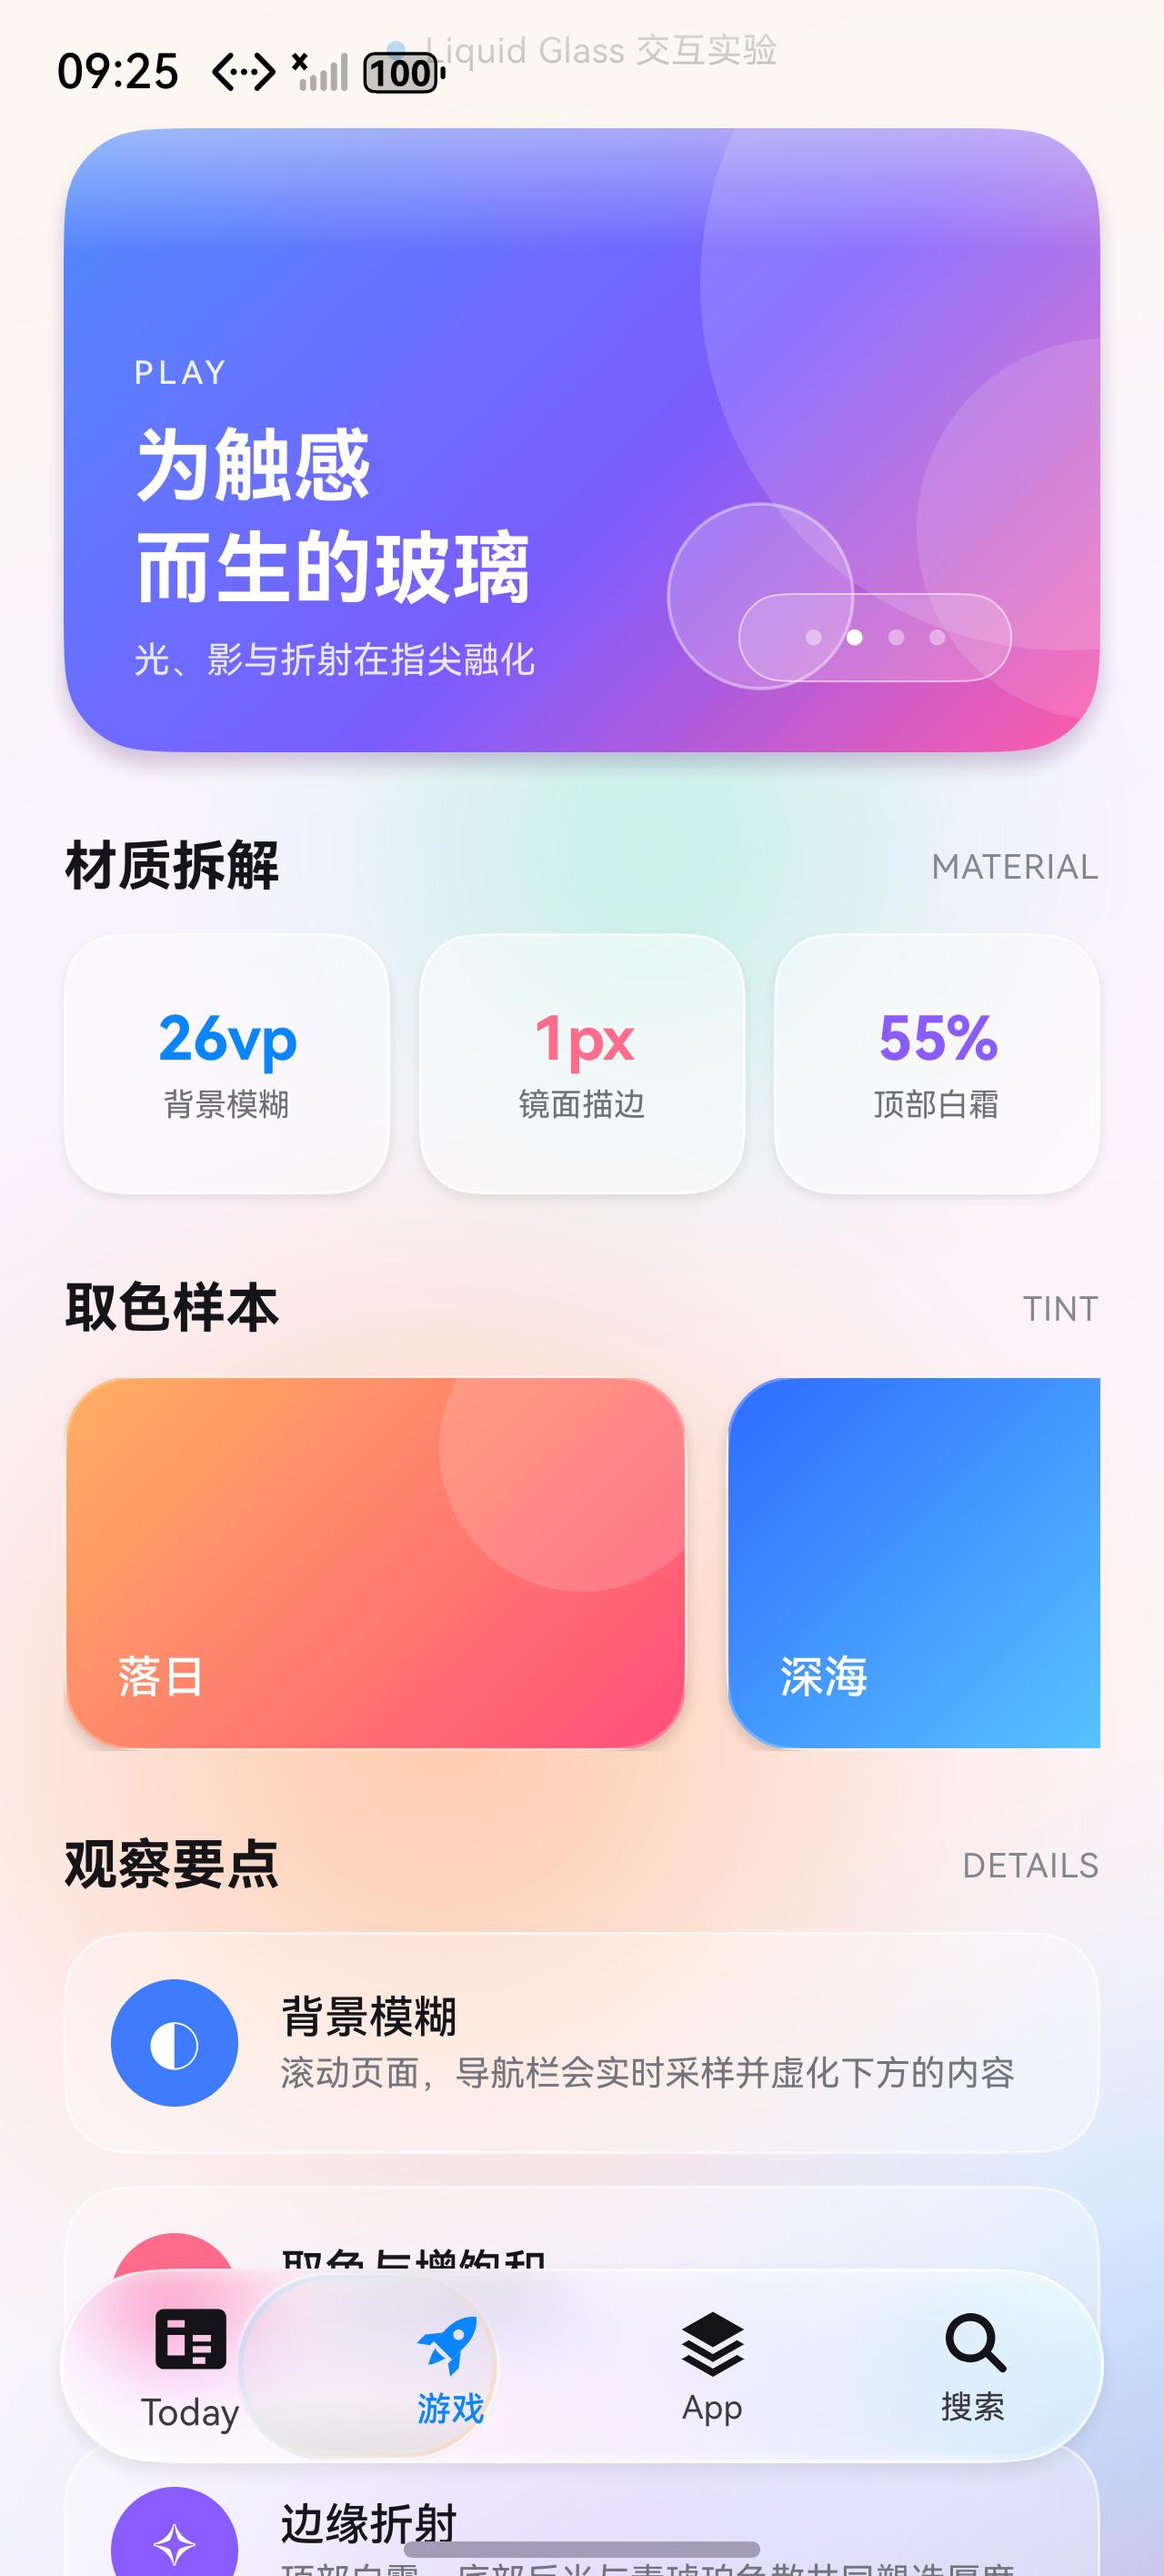
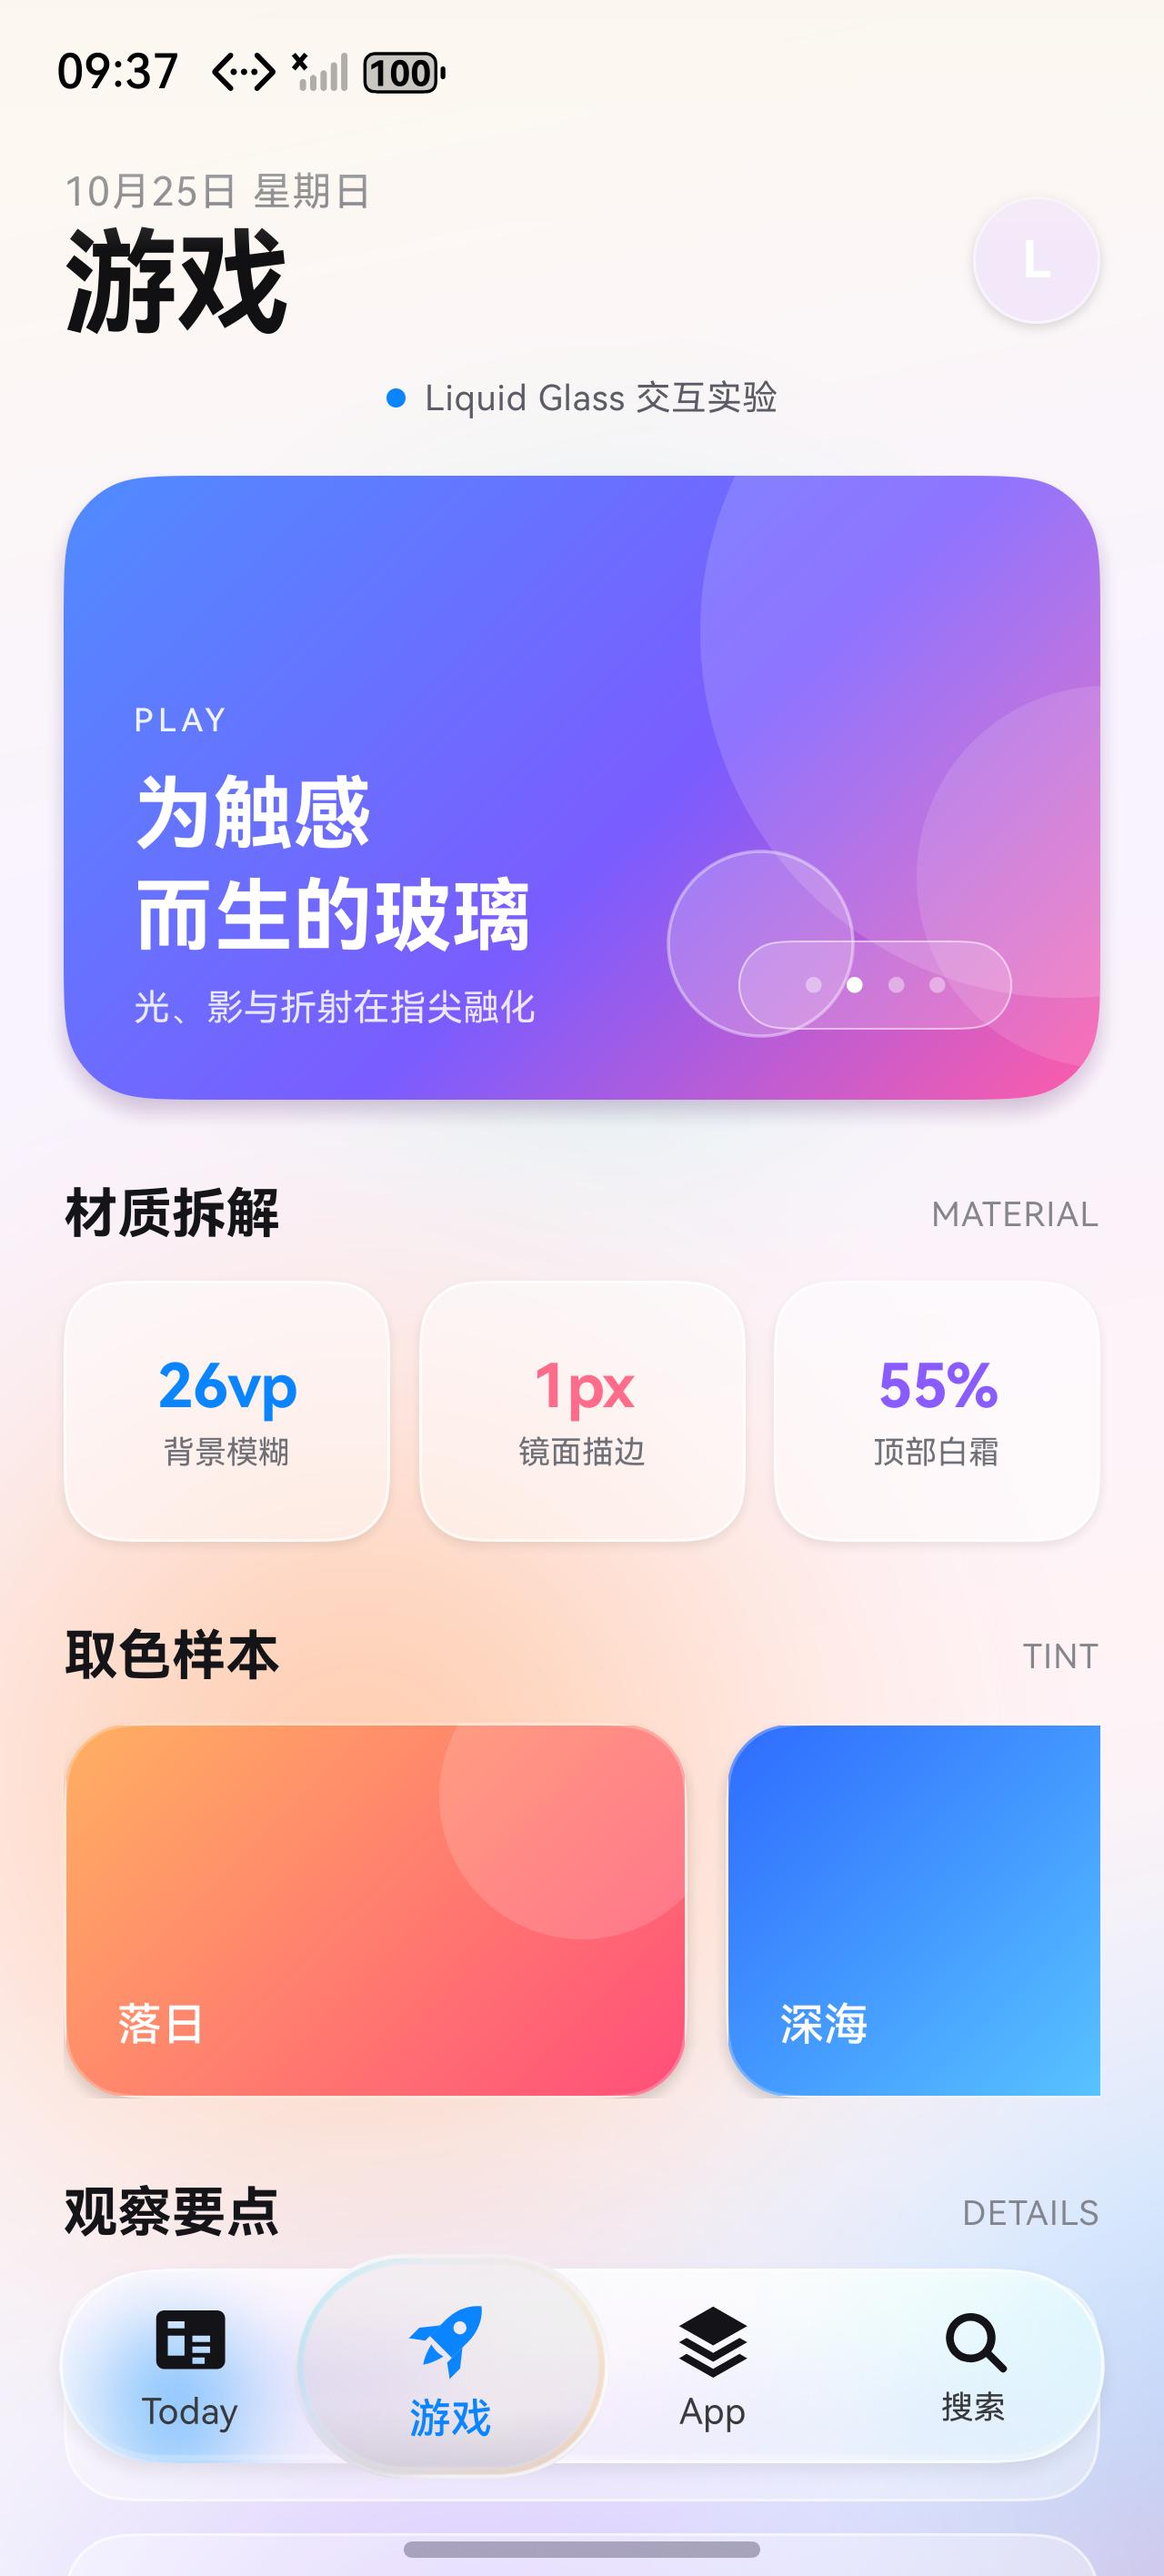
fix: keep the liquid lens clarity constant while it scales
- drop the per-bloom fill/rim opacity fade
- reuse the same glass material at rest and at full bloom
- refresh the documentation and lens screenshots

diff --git a/docs/analysis.md b/docs/analysis.md
@@ -149,7 +149,7 @@ ui.animateTo({
 
 > 按最新交互要求，透镜在点击时会明显高出、长出栏体：约 `67.5 vp` 高（上下各超出约 3.75 vp）、约 `95 vp` 长，左右两端最多超出约 7.3 vp。这里不再对透镜做栏体裁剪，让玻璃、模糊与描边一起溢出，形成参考视频里“液体鼓起”的体积感。
 
-膨胀过程中，内部材质会部分淡出：`lensFill` 从 1 → 0.3，`lensRim` 从 1 → 0.8；到最大时仍保留约 30% 的玻璃感，不会完全透明。
+膨胀过程中，玻璃填充、内阴影与描边保持与静止时相同的透明度，不随放大而变淡或变透明；放大后只是同一块玻璃变得更大。
 
 **放大只作用于导航栏自身**：四个 TabItem 的图标与文字会根据其到气泡中心的距离放大（约 1.0–1.3×），栏后的页面内容不缩放，只保留玻璃的背景模糊与取色。这样气泡像一枚盖在导航栏上的透镜，而不是放大页面内容。
 
@@ -165,13 +165,13 @@ ui.animateTo({
 | 按住 | 260 ms | spring(0.32, 0.78) | **整条栏 1.05×，选中气泡 1.45×**，明显高出、长出栏体 |
 | 拖动 | 实时 | — | `bubbleX` 跟随手指，不吸附标签；松手落到最近标签 |
 | 松开 | 360 ms | spring(0.42, 0.86) | 整条栏回弹到 1.0 |
-| 透镜膨胀 | 170 ms | EaseOut | 1.35 × 1.35，明显高出、长出栏体；内部材质淡出到 30% |
-| 最大膨胀 | 与膨胀同步 | — | `lensFill = 0.3`、`lensRim = 0.8`；导航栏图标/文字放大 1.0–1.3×，页面内容不缩放 |
+| 透镜膨胀 | 170 ms | EaseOut | 1.35 × 1.35，明显高出、长出栏体；填充与描边保持不变 |
+| 最大膨胀 | 与膨胀同步 | — | 清晰度与静止时一致；导航栏图标/文字放大 1.0–1.3×，页面内容不缩放 |
 | 透镜位移 | 640 ms | spring(0.42, 0.7) | 带过冲，途中保持膨胀 |
 | 透镜回弹 | 520 ms | spring(0.52, 0.82) | 回到 1.0，bloom 淡出 |
 | 内容切换 | 即时 | — | 标题、主视觉、主题色切换 |
 
-按住时外层 `Stack` 以 1.05× 放大，选中透镜同时以 1.45× 膨胀（约 72.5 vp 高、102 vp 长），上下与左右都会明显超出栏体；内部保留 30% 玻璃填充（`lensFill 1→0.3`、`lensRim 1→0.8`），不会完全透明。导航栏图标/文字按到气泡中心的距离放大 1.0–1.3×，页面内容保持原尺寸。
+按住时外层 `Stack` 以 1.05× 放大，选中透镜同时以 1.45× 膨胀（约 72.5 vp 高、102 vp 长），上下与左右都会明显超出栏体；玻璃填充与描边保持原样，放大前后清晰度一致，不会变透明。导航栏图标/文字按到气泡中心的距离放大 1.0–1.3×，页面内容保持原尺寸。
 
 ![按住放大对照](screenshots/bar-hold-compare.png)
 
@@ -210,7 +210,7 @@ Stack
 │   ├── 白色纵向渐变（顶部霜 / 中部透 / 底部反光）
 │   ├── 冷色薄片
 │   └── GlassRim（镜面描边 + 反光 + 高光）
-├── 选中透镜（鼓出栏体，填充可淡出）
+├── 选中透镜（鼓出栏体，清晰度不变）
 │   ├── backgroundEffect 二次聚色
 │   ├── 烟熏色 + 白色高光渐变
 │   ├── 底部内阴影
@@ -238,8 +238,6 @@ ui.animateTo({ duration: 320, curve: curves.springMotion(0.34, 0.7) }, () => {
   this.bloomX = 1.45;
   this.bloomY = 1.45;
   this.glow = 1;
-  this.lensFill = 0.3;  // 保留 30% 玻璃感
-  this.lensRim = 0.8;   // 边缘更清晰
 });
 // 松开：弹回
 ui.animateTo({ duration: 360, curve: curves.springMotion(0.42, 0.86) }, () => {

diff --git a/README.md b/README.md
@@ -20,7 +20,7 @@
 | 彩色背景 | 预渲染 PNG 光斑，缓慢漂移 |
 | 沉浸式 | 全屏 + `getWindowAvoidArea` 安全区 |
 
-选中切换：透镜先在 170 ms 内膨胀到 `1.35 × 1.35`，明显高出、长出导航栏；内部白霜与烟熏色淡出，但保留约 30% 的玻璃感，不会完全透明。**只放大导航栏自身的图标与文字**，栏后的页面内容不缩放，只保留玻璃的模糊与取色。
+选中切换：透镜先在 170 ms 内膨胀到 `1.35 × 1.35`，明显高出、长出导航栏；放大前后保持相同的玻璃填充、描边与清晰度，不会因为放大而变透明。**只放大导航栏自身的图标与文字**，栏后的页面内容不缩放，只保留玻璃的模糊与取色。
 
 ## 目录
 
@@ -59,7 +59,7 @@ hdc -t 127.0.0.1:5555 shell aa start \
 
 - 上下滚动：把彩色卡片滑到导航栏下方，观察取色、模糊与高光变化。
 - 点击四个标签：观察透镜的膨胀、弹射和回弹。
-- 按住标签不松手：整条玻璃栏放大到 **1.05×**，选中气泡同时膨胀到 **1.45×**；气泡保留约 30% 玻璃填充，不会完全透明。**导航栏自身的图标/文字会随气泡位置放大 1.0–1.3×，栏后的页面内容不缩放**；松开后气泡回弹并切页。
+- 按住标签不松手：整条玻璃栏放大到 **1.05×**，选中气泡同时膨胀到 **1.45×**；气泡放大前后清晰度一致，不会变透明。**导航栏自身的图标/文字会随气泡位置放大 1.0–1.3×，栏后的页面内容不缩放**；松开后气泡回弹并切页。
 - 按住后左右拖动：气泡连续跟手流动，不在标签之间吸附；松手落到最近的标签。
 
 ![按住拖动，气泡跟手流动](docs/screenshots/bar-drag.jpg)
